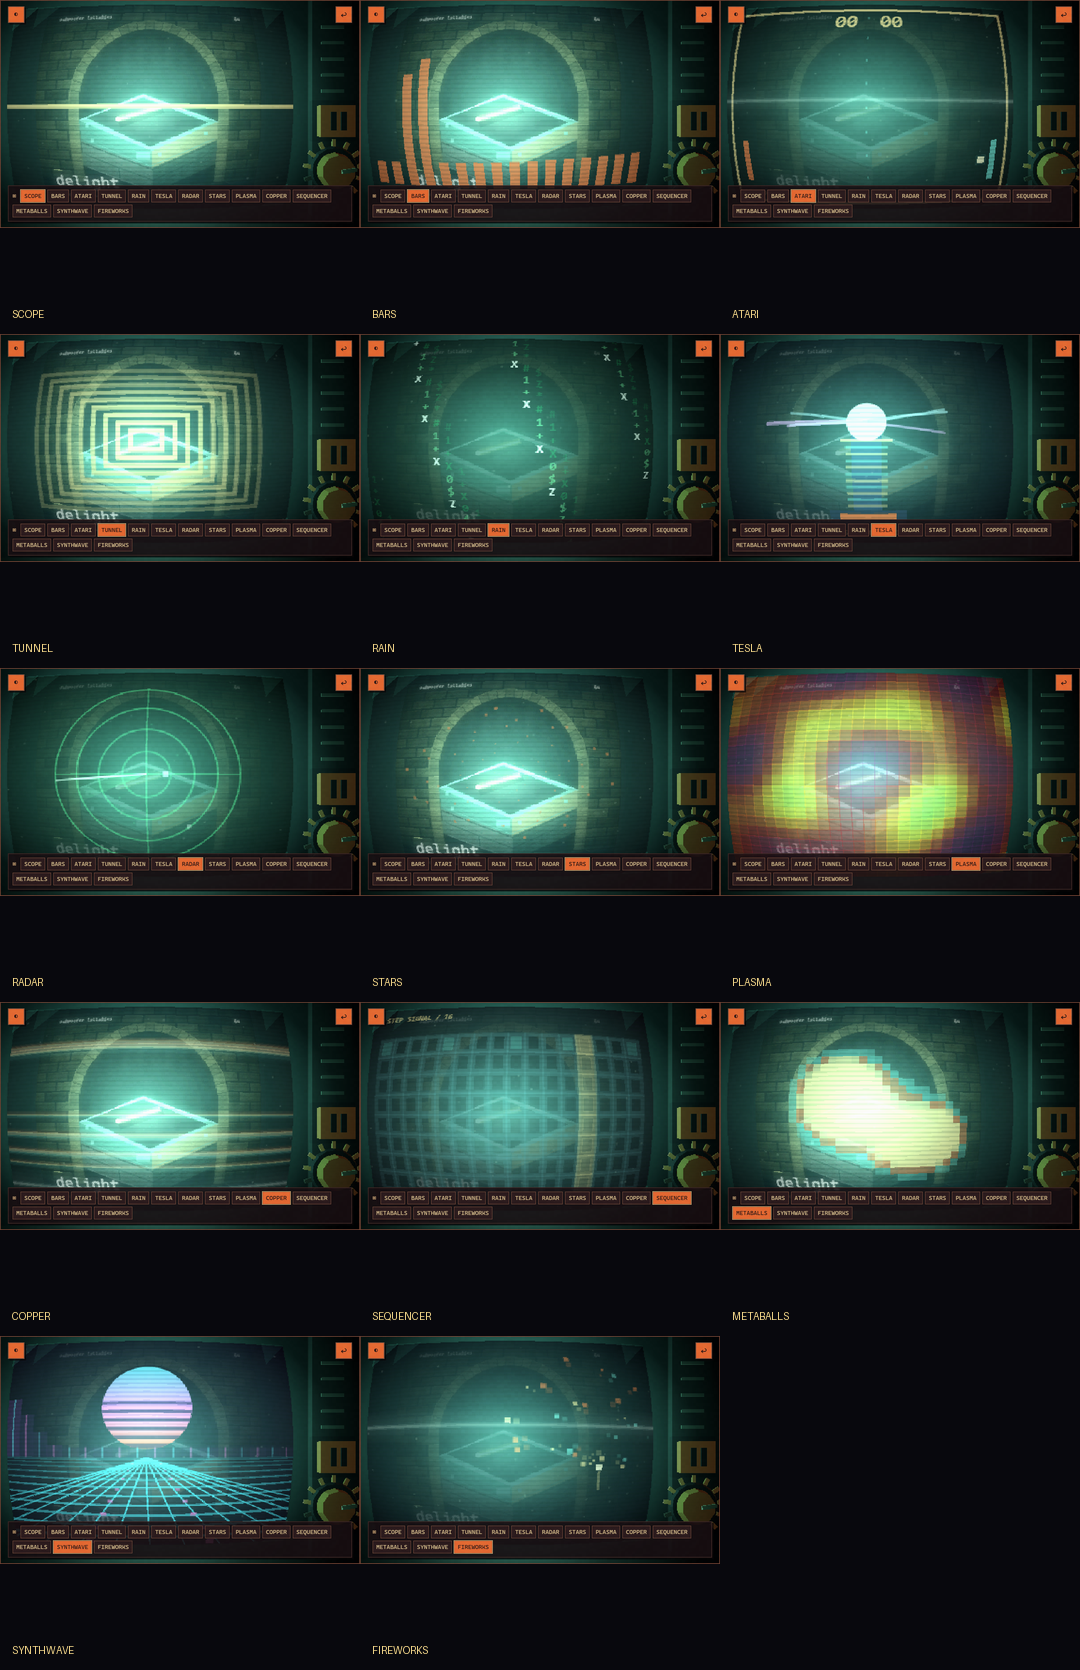
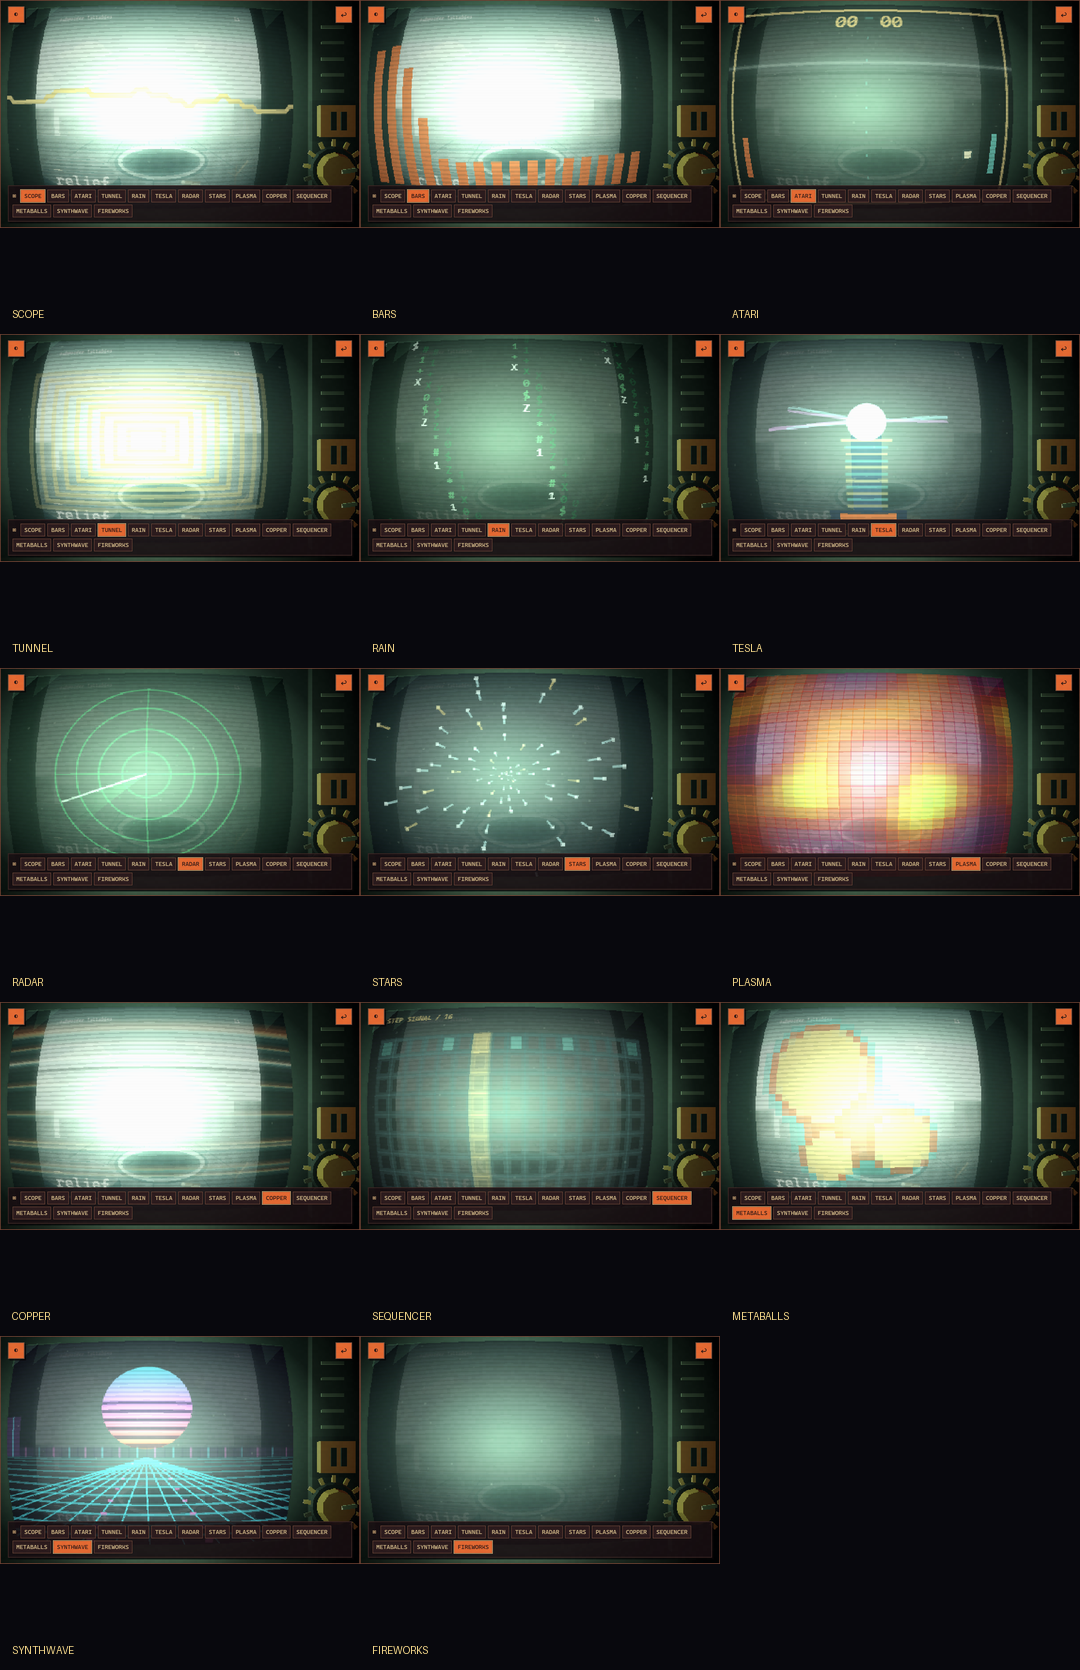
Turn Stars into space flight
Copilot-Session: 3bd1eee1-6bd2-4cb0-9744-04fcd8d3bd40

diff --git a/site/src/three-scenes.ts b/site/src/three-scenes.ts
@@ -2096,22 +2096,36 @@ export function createBoxScene(
         crtContext.restore();
       } else if (visualizerMode === 'stars') {
         crtContext.save();
+        crtContext.fillStyle = 'rgba(2,4,18,.72)';
+        crtContext.fillRect(0, 0, width, height);
         crtContext.translate(width / 2, height / 2);
-        for (let star = 0; star < 64; star++) {
-          const bandEnergy = sensitiveBand(star / 64, (star + 1) / 64, 2.15);
-          const depth = (star * 0.173 + time * (0.055 + smoothedEnergy * 0.14)) % 1;
-          const angle = star * 2.399 + time * (0.018 + treble * 0.08);
-          const radius = Math.pow(depth, 0.72) * (112 + bandEnergy * 16);
-          const size = 1 + depth * 2.4 + bandEnergy * 2.2;
-          crtContext.globalAlpha = 0.26 + depth * 0.42 + bandEnergy * 0.12;
-          crtContext.fillRect(
-            Math.cos(angle) * radius - size / 2,
-            Math.sin(angle) * radius * 0.68 - size / 2,
-            size,
-            size,
-          );
+        const starCount = 96;
+        const maximumRadius = Math.hypot(width / 2, height / 2) * 1.08;
+        for (let star = 0; star < starCount; star++) {
+          const depth = (star * 0.137 + time * 0.22) % 1;
+          const angle = star * 2.399 + Math.sin(star * 4.73) * 0.24;
+          const spread = 0.66 + (star * 37 % 31) / 100;
+          const radius = Math.pow(depth, 1.62) * maximumRadius * spread;
+          const trailDepth = Math.max(0, depth - 0.025 - depth * 0.045);
+          const trailRadius = Math.pow(trailDepth, 1.62) * maximumRadius * spread;
+          const x = Math.cos(angle) * radius;
+          const y = Math.sin(angle) * radius * 0.72;
+          const trailX = Math.cos(angle) * trailRadius;
+          const trailY = Math.sin(angle) * trailRadius * 0.72;
+          const size = 1 + depth * 4.2;
+          crtContext.strokeStyle = star % 5 === 0 ? '#f4d789' : '#c9fbff';
+          crtContext.lineWidth = 0.6 + depth * 2.2;
+          crtContext.globalAlpha = 0.16 + depth * 0.66;
+          crtContext.beginPath();
+          crtContext.moveTo(trailX, trailY);
+          crtContext.lineTo(x, y);
+          crtContext.stroke();
+          crtContext.fillStyle = star % 5 === 0 ? '#fff1b5' : '#eaffff';
+          crtContext.globalAlpha = 0.38 + depth * 0.62;
+          crtContext.fillRect(x - size / 2, y - size / 2, size, size);
         }
         crtContext.globalAlpha = 1;
+        crtContext.lineWidth = 1;
         crtContext.restore();
       } else if (visualizerMode === 'fireworks') {
         crtContext.save();

diff --git a/docs/website.md b/docs/website.md
@@ -161,7 +161,7 @@ adaptive waveform gain keep quieter recordings visibly responsive.
 | `rain` | Matrix-style green code streams with bright heads and frequency-sized trails |
 | `tesla` | Central audio coil with vectors-style adaptive waveform sensitivity driving bolt reach, direction, thickness and jagged motion |
 | `radar` | Circular phosphor scope with a constant-speed sweep and targets that illuminate only on detected beats |
-| `stars` | Calm spectral depth field with restrained motion and size response |
+| `stars` | Constant-speed radial space flight with outward-moving stars and depth-lengthened trails; no audio reactivity |
 | `plasma` | Chunky multi-field demoscene plasma |
 | `copper` | Moving horizontal raster/copper bands |
 | `sequencer` | Scanning hardware step grid with frequency-driven pads |
